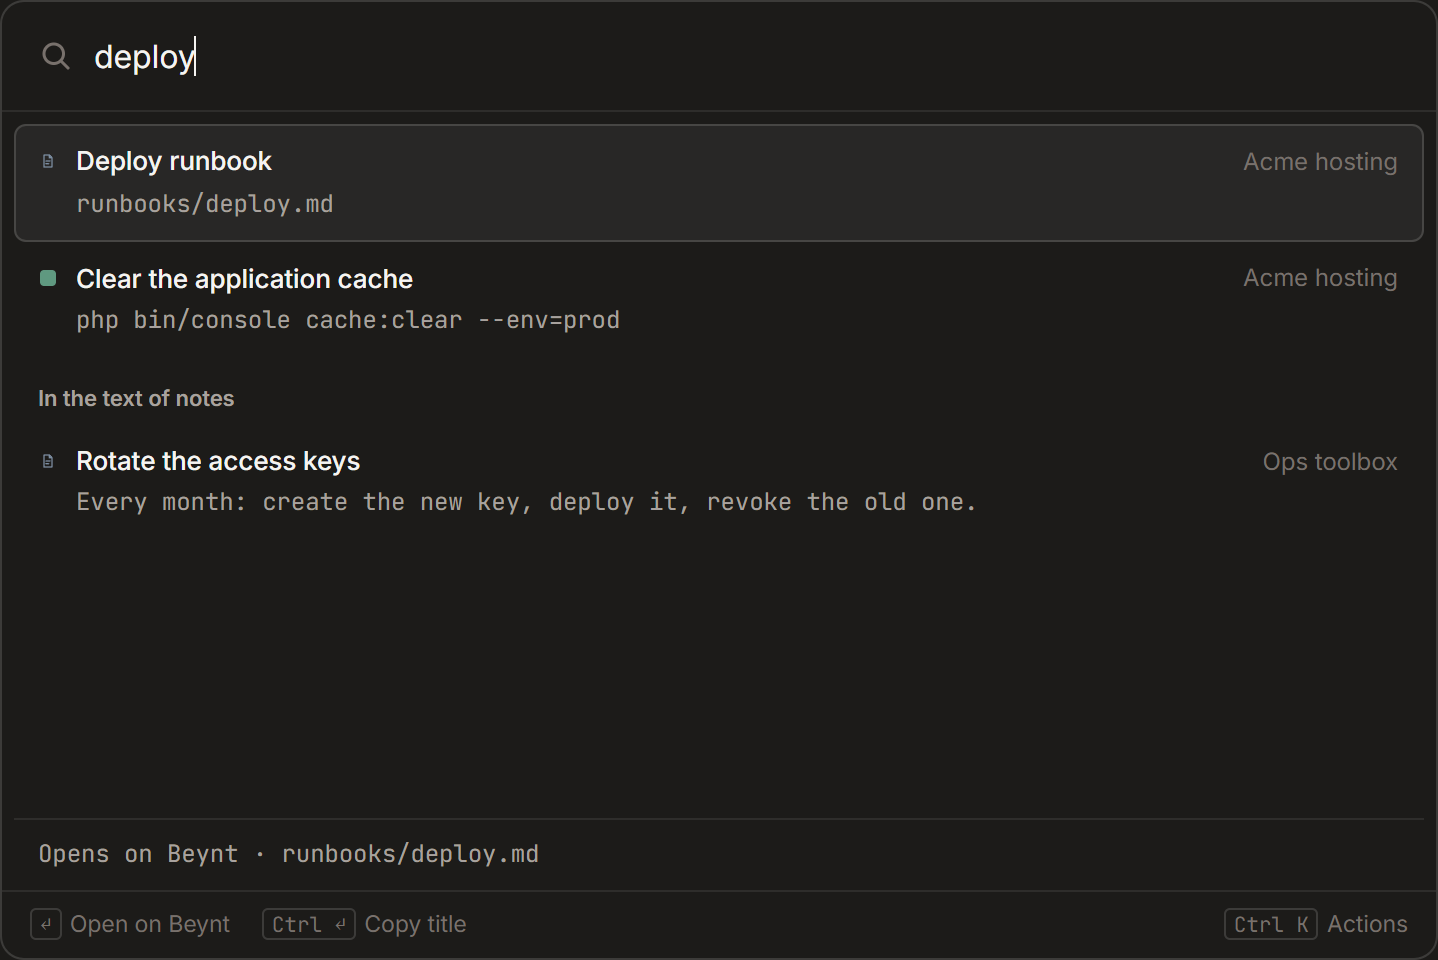
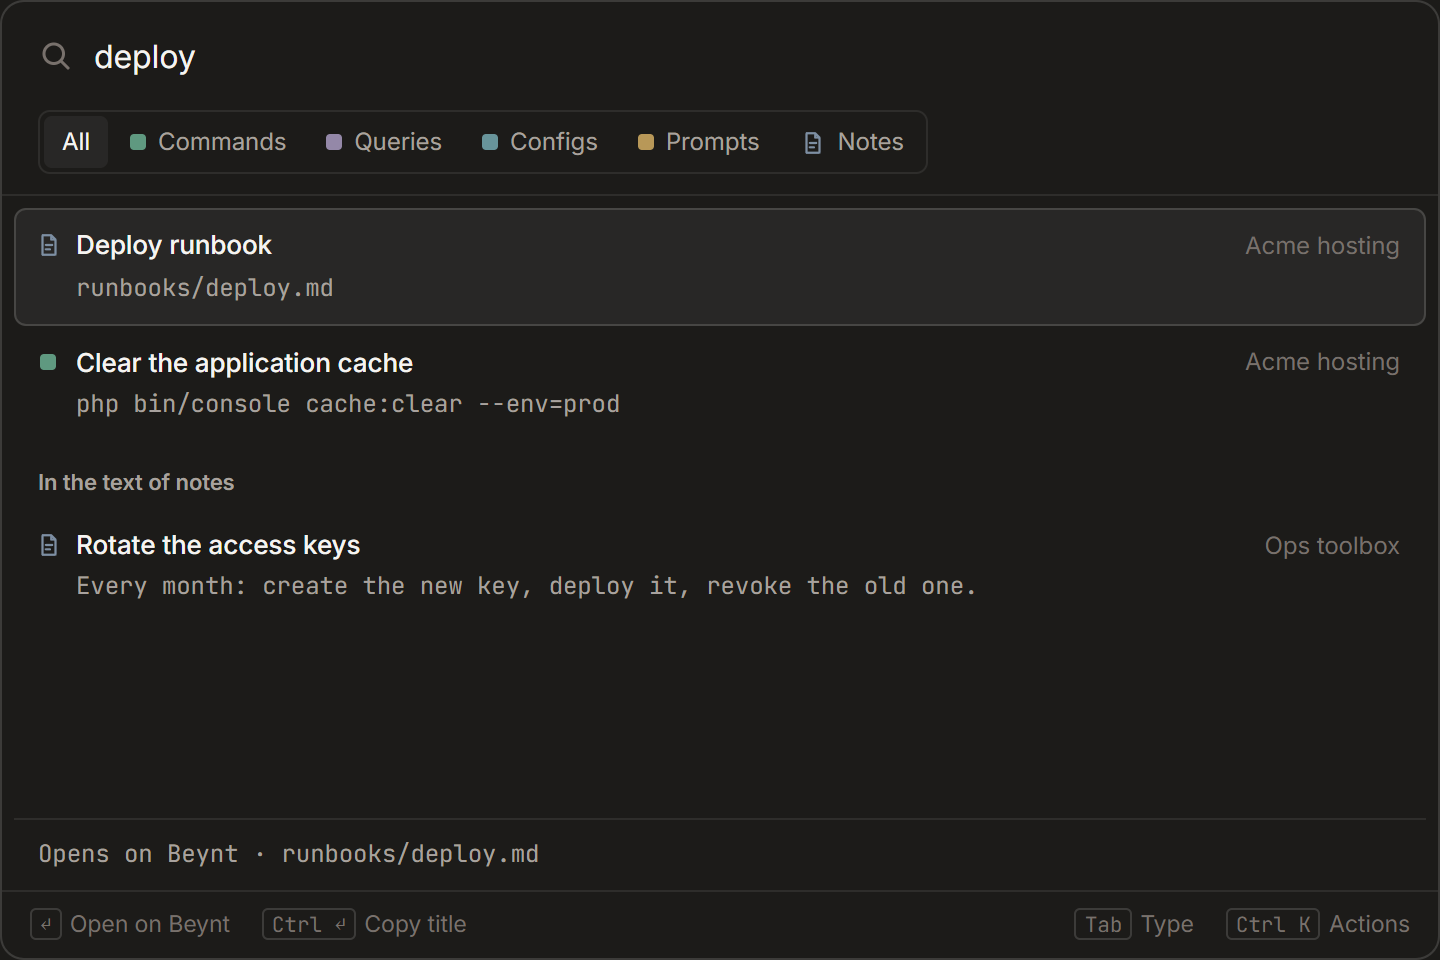
README: pictures of searching, filling a command and the library

diff --git a/README.md b/README.md
@@ -3,12 +3,18 @@
 The desktop companion of [Beynt](https://beynt.com): your commands and notes at hand in any app.
 For Windows, macOS and Linux.
 
-![The search window: a note found by its title, a command, and a note found in its text](.github/palette.png)
+![The search window: a note found by its title, a command found by its tag, and a note found in its text](.github/palette.png)
 
 - **Search from any app** — press **Ctrl + Alt + B** (**⌥⇧Space** on a Mac, changeable in Settings),
   type a few words, press Enter. A command, query, config or prompt asks for its `{{placeholders}}`
   and lands on the clipboard; a note opens in beynt.com's reader. Before you type, the search shows
-  your favorites and what you use most lately; a stack's name in the query narrows it to that stack.
+  your favorites and what you use most lately.
+- **Narrow it down** — **Tab** picks a type (commands, queries, configs, prompts, notes), `#tag` keeps
+  what has that tag, and a stack's name keeps that stack. A word typed with one letter wrong, missing
+  or swapped still finds what you meant.
+
+![Filling the placeholders of a command: the result updates as you type, Enter copies it](.github/fill.png)
+
 - **Actions** — **Ctrl + Enter** (⌘↵) copies a note's title, ready to name it to an AI agent that
   reads Beynt, or copies a command as written; **Ctrl + K** (⌘K) lists every action of the selected
   item: copy the title or the link, open it on Beynt, add it to the favorites.
@@ -21,6 +27,8 @@ For Windows, macOS and Linux.
 - **Account** — the first window asks for an access key: it opens the page on Beynt where you create
   one (*Find work only*, that is `stacks:read` and `artifacts:read`). The key is kept in the system
   keychain, and the app only reads.
+
+![The library: favorites and recent items, a query with its placeholder filled in](.github/library.png)
 
 Beynt starts at login in the tray (Settings → Start-up), so the shortcut works right away; closing the
 window keeps it running in the tray or the Mac's menu bar, and the tray menu (⌘Q on a Mac) quits. On
